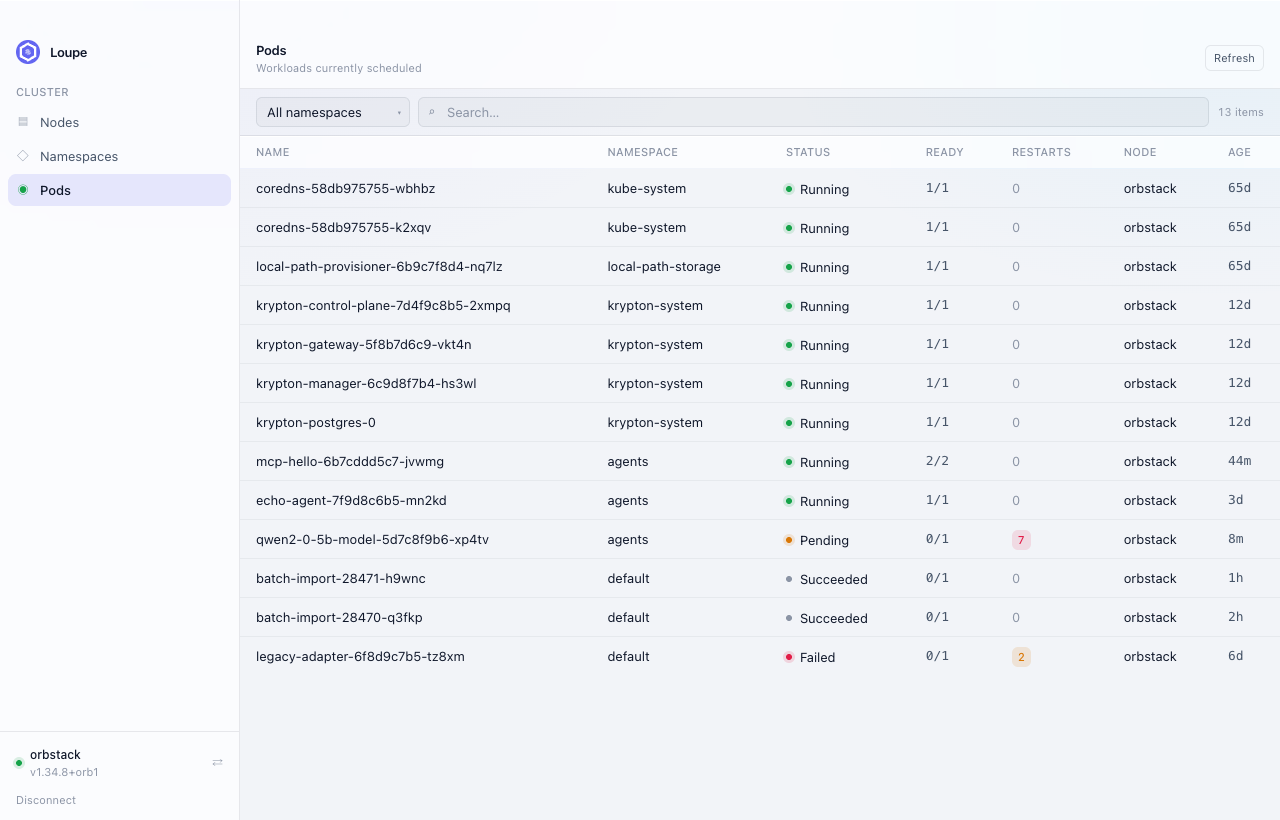
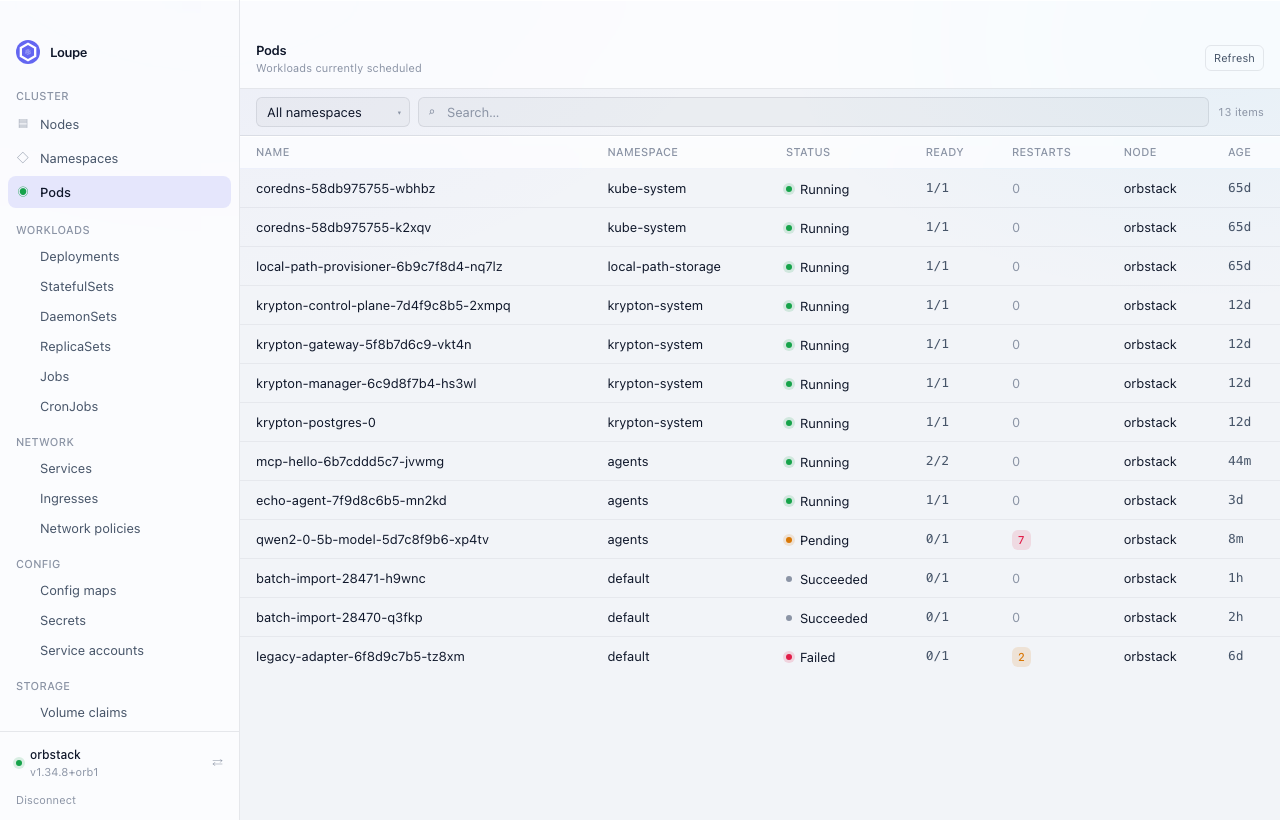
docs: refresh the screenshots for the views that now exist
The old pair showed a three-item sidebar that has not existed since the
workloads, network, config and storage sections landed — accurate to
nothing currently shipping. Recaptured at the same 1280x820 from the
same demo fixtures, and extended to cover what is new: a server-printed
listing, node allocation, and a Secret described without being
disclosed.

diff --git a/README.md b/README.md
@@ -60,6 +60,27 @@ require Krypton Runtime to be installed.
   `previous` for reading why a crashed container died
 
 <p align="center">
+  <img src="docs/screenshots/services.png" width="820" alt="Service list with the columns kubectl get prints" />
+</p>
+
+<p align="center">
+  <em>Listings use the API server's own printer, so the columns match
+  <code>kubectl get</code> — for built-in kinds and custom resources alike.</em>
+</p>
+
+<p align="center">
+  <img src="docs/screenshots/node-detail.png" width="820" alt="Node detail with allocated CPU and memory against allocatable" />
+</p>
+
+<p align="center">
+  <img src="docs/screenshots/secret-data.png" width="820" alt="Secret keys and sizes with values held back behind a per-key reveal" />
+</p>
+
+<p align="center">
+  <em>A Secret is described without being disclosed.</em>
+</p>
+
+<p align="center">
   <img src="docs/screenshots/pod-yaml.png" width="820" alt="Pod manifest with syntax highlighting" />
 </p>
 
